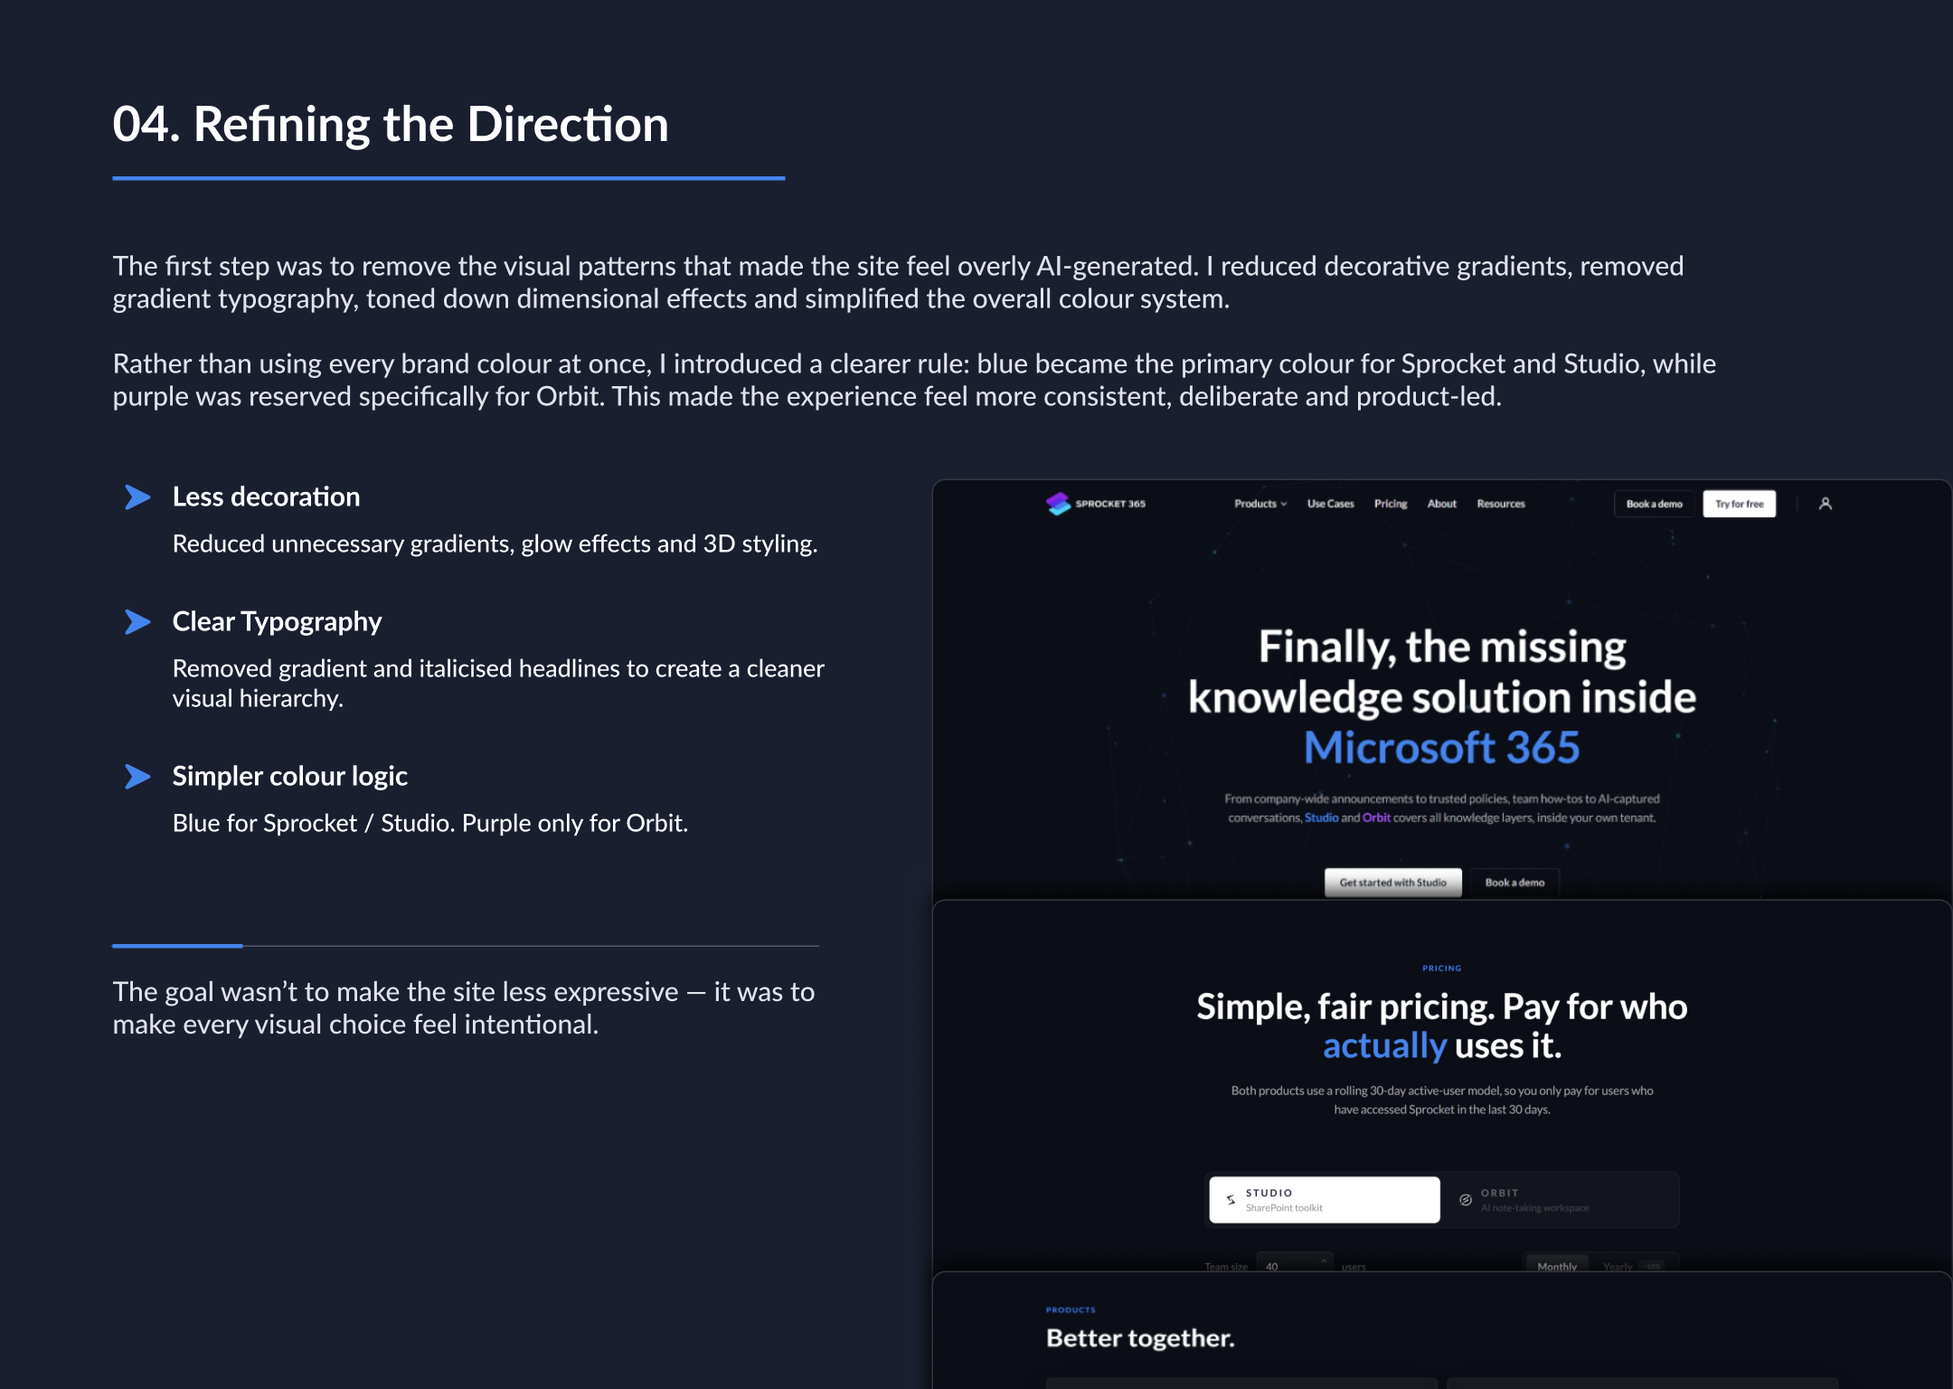
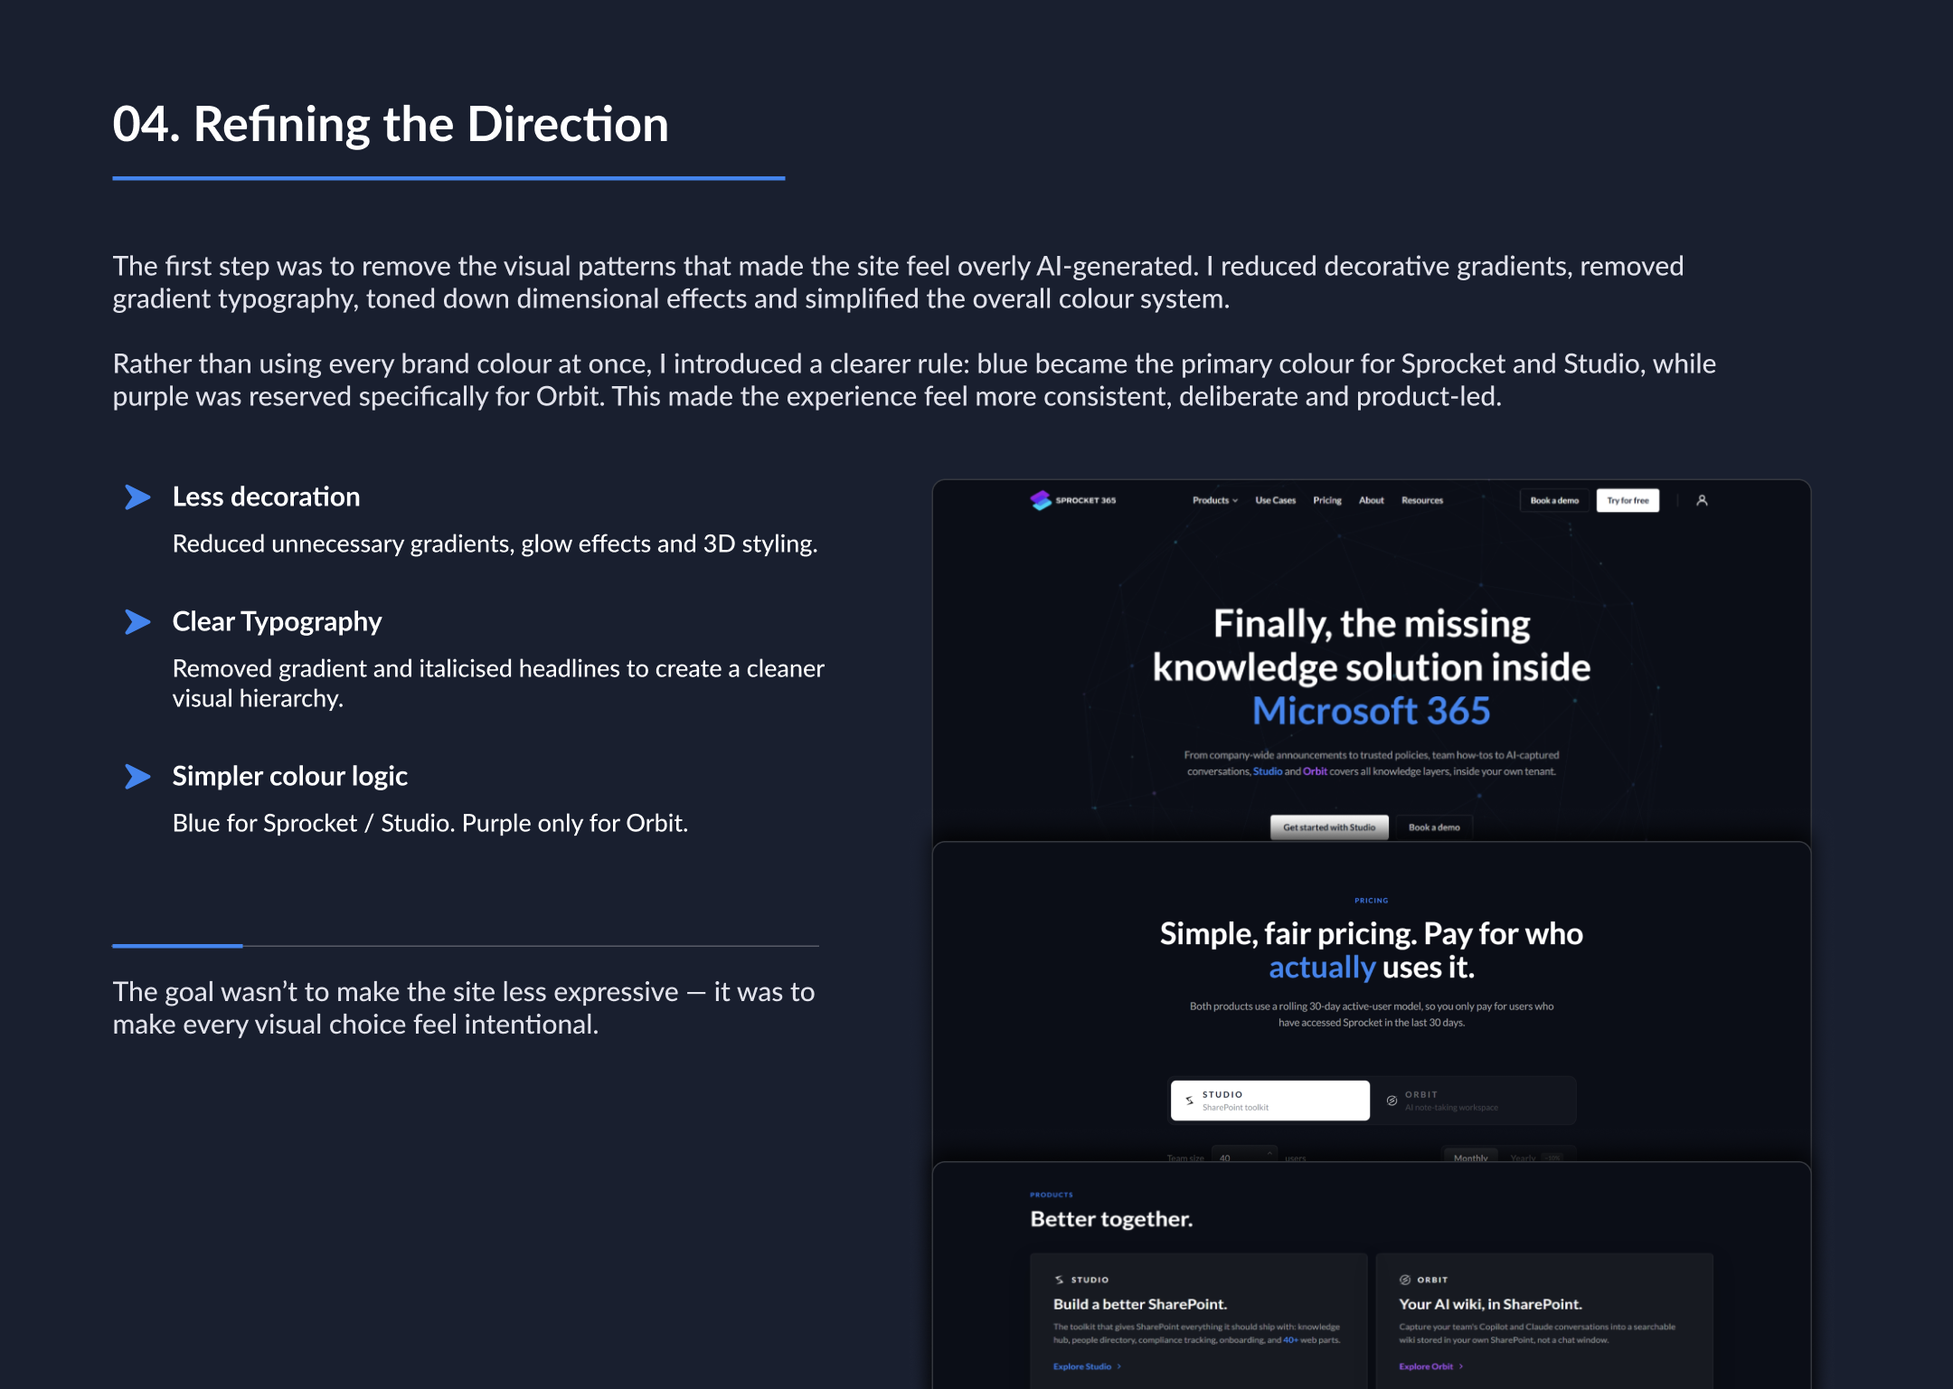
Add Sprocket Studio Intranets Design case study
Add the Intranets Design case study with challenge/approach/showcase
shots and a lookbook link, wire it into the portfolio grid and project
nav chain, simplify the confidentiality notes, and refresh the updated
Sprocket Studio cover and slide 04 assets.

diff --git a/portfolio.html b/portfolio.html
@@ -66,6 +66,20 @@
         </div>
       </a>
 
+      <a class="work-card" data-category="Product" href="work/sprocket-studio-intranets-design.html">
+        <div class="work-card-media">
+          <span class="work-card-badge">Product</span>
+          <img src="Image/sprocketintranet.png" alt="" loading="lazy">
+          <span class="work-card-arrow"><svg viewBox="0 0 20 20" fill="none"><path d="M5 15L15 5M15 5H7M15 5V13" stroke="currentColor" stroke-width="1.6" stroke-linecap="round" stroke-linejoin="round"/></svg></span>
+        </div>
+        <div class="work-card-body">
+          <span class="work-card-index">03</span>
+          <h3 class="work-card-name">Sprocket Studio — Intranets Design</h3>
+          <p class="work-card-tagline">Designing better SharePoint intranets with the Sprocket Studio toolkit.</p>
+          <div class="work-card-tags"><span class="tag">Product Design</span><span class="tag">SharePoint</span></div>
+        </div>
+      </a>
+
       <a class="work-card" data-category="Website" href="work/sope-website-redesign.html">
         <div class="work-card-media">
           <span class="work-card-badge">Website</span>
@@ -73,7 +87,7 @@
           <span class="work-card-arrow"><svg viewBox="0 0 20 20" fill="none"><path d="M5 15L15 5M15 5H7M15 5V13" stroke="currentColor" stroke-width="1.6" stroke-linecap="round" stroke-linejoin="round"/></svg></span>
         </div>
         <div class="work-card-body">
-          <span class="work-card-index">03</span>
+          <span class="work-card-index">04</span>
           <h3 class="work-card-name">Sope Website Redesign</h3>
           <p class="work-card-tagline">Brand implementation & website redesign for a Microsoft 365 consultancy.</p>
           <div class="work-card-tags"><span class="tag">Web Design</span><span class="tag">Brand</span><span class="tag">SharePoint</span></div>
@@ -87,7 +101,7 @@
           <span class="work-card-arrow"><svg viewBox="0 0 20 20" fill="none"><path d="M5 15L15 5M15 5H7M15 5V13" stroke="currentColor" stroke-width="1.6" stroke-linecap="round" stroke-linejoin="round"/></svg></span>
         </div>
         <div class="work-card-body">
-          <span class="work-card-index">04</span>
+          <span class="work-card-index">05</span>
           <h3 class="work-card-name">Tredo</h3>
           <p class="work-card-tagline">Trade, exchange, and do — a peer-to-peer marketplace app.</p>
           <div class="work-card-tags"><span class="tag">Mobile</span><span class="tag">Product Design</span></div>
@@ -101,7 +115,7 @@
           <span class="work-card-arrow"><svg viewBox="0 0 20 20" fill="none"><path d="M5 15L15 5M15 5H7M15 5V13" stroke="currentColor" stroke-width="1.6" stroke-linecap="round" stroke-linejoin="round"/></svg></span>
         </div>
         <div class="work-card-body">
-          <span class="work-card-index">05</span>
+          <span class="work-card-index">06</span>
           <h3 class="work-card-name">JoPipe</h3>
           <p class="work-card-tagline">Create a community of common interests.</p>
           <div class="work-card-tags"><span class="tag">Mobile</span><span class="tag">Community</span></div>
@@ -115,7 +129,7 @@
           <span class="work-card-arrow"><svg viewBox="0 0 20 20" fill="none"><path d="M5 15L15 5M15 5H7M15 5V13" stroke="currentColor" stroke-width="1.6" stroke-linecap="round" stroke-linejoin="round"/></svg></span>
         </div>
         <div class="work-card-body">
-          <span class="work-card-index">06</span>
+          <span class="work-card-index">07</span>
           <h3 class="work-card-name">GPost White Label Solution</h3>
           <p class="work-card-tagline">Promoting communication between government and the people.</p>
           <div class="work-card-tags"><span class="tag">Mobile</span><span class="tag">Civic Tech</span><span class="tag">UX Research</span></div>
@@ -129,7 +143,7 @@
           <span class="work-card-arrow"><svg viewBox="0 0 20 20" fill="none"><path d="M5 15L15 5M15 5H7M15 5V13" stroke="currentColor" stroke-width="1.6" stroke-linecap="round" stroke-linejoin="round"/></svg></span>
         </div>
         <div class="work-card-body">
-          <span class="work-card-index">07</span>
+          <span class="work-card-index">08</span>
           <h3 class="work-card-name">PTV Proposal</h3>
           <p class="work-card-tagline">Keeping Melbourne's train stations orderly and safe during COVID-19.</p>
           <div class="work-card-tags"><span class="tag">UX Research</span><span class="tag">Mobile</span><span class="tag">Case Study</span></div>
@@ -143,7 +157,7 @@
           <span class="work-card-arrow"><svg viewBox="0 0 20 20" fill="none"><path d="M5 15L15 5M15 5H7M15 5V13" stroke="currentColor" stroke-width="1.6" stroke-linecap="round" stroke-linejoin="round"/></svg></span>
         </div>
         <div class="work-card-body">
-          <span class="work-card-index">08</span>
+          <span class="work-card-index">09</span>
           <h3 class="work-card-name">Comedy Tonight</h3>
           <p class="work-card-tagline">A UK talk-show and stand-up ticketing platform.</p>
           <div class="work-card-tags"><span class="tag">Mobile</span><span class="tag">iOS</span><span class="tag">Ticketing</span></div>
@@ -157,7 +171,7 @@
           <span class="work-card-arrow"><svg viewBox="0 0 20 20" fill="none"><path d="M5 15L15 5M15 5H7M15 5V13" stroke="currentColor" stroke-width="1.6" stroke-linecap="round" stroke-linejoin="round"/></svg></span>
         </div>
         <div class="work-card-body">
-          <span class="work-card-index">09</span>
+          <span class="work-card-index">10</span>
           <h3 class="work-card-name">GPost Backend System</h3>
           <p class="work-card-tagline">Backend system for the White Label solution — dashboards for government staff.</p>
           <div class="work-card-tags"><span class="tag">Web Design</span><span class="tag">Admin</span></div>
@@ -171,7 +185,7 @@
           <span class="work-card-arrow"><svg viewBox="0 0 20 20" fill="none"><path d="M5 15L15 5M15 5H7M15 5V13" stroke="currentColor" stroke-width="1.6" stroke-linecap="round" stroke-linejoin="round"/></svg></span>
         </div>
         <div class="work-card-body">
-          <span class="work-card-index">10</span>
+          <span class="work-card-index">11</span>
           <h3 class="work-card-name">Avo Mall App</h3>
           <p class="work-card-tagline">A convenient and powerful Asian online supermarket app serving local Australians.</p>
           <div class="work-card-tags"><span class="tag">Mobile</span><span class="tag">E-commerce</span></div>
@@ -185,7 +199,7 @@
           <span class="work-card-arrow"><svg viewBox="0 0 20 20" fill="none"><path d="M5 15L15 5M15 5H7M15 5V13" stroke="currentColor" stroke-width="1.6" stroke-linecap="round" stroke-linejoin="round"/></svg></span>
         </div>
         <div class="work-card-body">
-          <span class="work-card-index">11</span>
+          <span class="work-card-index">12</span>
           <h3 class="work-card-name">BMYG</h3>
           <p class="work-card-tagline">Financial website design for a Chinese-language Australian finance portal.</p>
           <div class="work-card-tags"><span class="tag">Web Design</span><span class="tag">Finance</span></div>
@@ -199,7 +213,7 @@
           <span class="work-card-arrow"><svg viewBox="0 0 20 20" fill="none"><path d="M5 15L15 5M15 5H7M15 5V13" stroke="currentColor" stroke-width="1.6" stroke-linecap="round" stroke-linejoin="round"/></svg></span>
         </div>
         <div class="work-card-body">
-          <span class="work-card-index">12</span>
+          <span class="work-card-index">13</span>
           <h3 class="work-card-name">Dahua X Starlight VI</h3>
           <p class="work-card-tagline">Dahua Technology Australia's donation campaign for the Starlight Children's Foundation.</p>
           <div class="work-card-tags"><span class="tag">Branding</span><span class="tag">Campaign</span></div>
@@ -213,7 +227,7 @@
           <span class="work-card-arrow"><svg viewBox="0 0 20 20" fill="none"><path d="M5 15L15 5M15 5H7M15 5V13" stroke="currentColor" stroke-width="1.6" stroke-linecap="round" stroke-linejoin="round"/></svg></span>
         </div>
         <div class="work-card-body">
-          <span class="work-card-index">13</span>
+          <span class="work-card-index">14</span>
           <h3 class="work-card-name">Oscar Oliver Branding</h3>
           <p class="work-card-tagline">Brand identity for an unlisted public company holding an Australian financial services licence.</p>
           <div class="work-card-tags"><span class="tag">Branding</span><span class="tag">Identity</span></div>
@@ -227,7 +241,7 @@
           <span class="work-card-arrow"><svg viewBox="0 0 20 20" fill="none"><path d="M5 15L15 5M15 5H7M15 5V13" stroke="currentColor" stroke-width="1.6" stroke-linecap="round" stroke-linejoin="round"/></svg></span>
         </div>
         <div class="work-card-body">
-          <span class="work-card-index">14</span>
+          <span class="work-card-index">15</span>
           <h3 class="work-card-name">Avari Capital Partners</h3>
           <p class="work-card-tagline">UI design for a real estate investment platform.</p>
           <div class="work-card-tags"><span class="tag">Web Design</span><span class="tag">Real Estate</span></div>
@@ -241,7 +255,7 @@
           <span class="work-card-arrow"><svg viewBox="0 0 20 20" fill="none"><path d="M5 15L15 5M15 5H7M15 5V13" stroke="currentColor" stroke-width="1.6" stroke-linecap="round" stroke-linejoin="round"/></svg></span>
         </div>
         <div class="work-card-body">
-          <span class="work-card-index">15</span>
+          <span class="work-card-index">16</span>
           <h3 class="work-card-name">Creative Practice</h3>
           <p class="work-card-tagline">Self-directed design explorations outside client work.</p>
           <div class="work-card-tags"><span class="tag">Web Design</span><span class="tag">Practice</span></div>
@@ -255,7 +269,7 @@
           <span class="work-card-arrow"><svg viewBox="0 0 20 20" fill="none"><path d="M5 15L15 5M15 5H7M15 5V13" stroke="currentColor" stroke-width="1.6" stroke-linecap="round" stroke-linejoin="round"/></svg></span>
         </div>
         <div class="work-card-body">
-          <span class="work-card-index">16</span>
+          <span class="work-card-index">17</span>
           <h3 class="work-card-name">BMYG App</h3>
           <p class="work-card-tagline">Companion mobile app for BMYG's financial platform.</p>
           <div class="work-card-tags"><span class="tag">Mobile</span><span class="tag">Finance</span></div>

diff --git a/work/sprocket-studio-intranets-design.html b/work/sprocket-studio-intranets-design.html
@@ -3,8 +3,8 @@
 <head>
 <meta charset="utf-8">
 <meta name="viewport" content="width=device-width, initial-scale=1">
-<title>Sprocket 365 — Product Design — Kevin Jung</title>
-<meta name="description" content="Ongoing UX/UI evolution of the Sprocket 365 Microsoft 365 web parts suite.">
+<title>Sprocket Studio — Intranets Design — Kevin Jung</title>
+<meta name="description" content="Designing better SharePoint intranets with the Sprocket Studio toolkit.">
 <link rel="preconnect" href="https://fonts.googleapis.com">
 <link rel="preconnect" href="https://fonts.gstatic.com" crossorigin>
 <link href="https://fonts.googleapis.com/css2?family=Instrument+Sans:wght@500;600;700&family=Geist:wght@400;500;600&family=Geist+Mono:wght@400;500;600&display=swap" rel="stylesheet">
@@ -33,44 +33,36 @@
         </a>
         <div class="proj-title-row">
           <div>
-            <div class="eyebrow">Product Design / Enterprise SaaS / Microsoft 365</div>
-            <h1 class="proj-title">Sprocket 365 — Product Design</h1>
-            <p class="proj-tagline">Enterprise product · Microsoft 365 · 2025–Present</p>
+            <div class="eyebrow">Product Design / SharePoint / Microsoft 365</div>
+            <h1 class="proj-title">Sprocket Studio — Intranets Design</h1>
+            <p class="proj-tagline">Designing better SharePoint intranets, built with the Sprocket Studio toolkit.</p>
           </div>
         </div>
     <div class="spec-sheet">
       <div class="spec-item"><div class="spec-label">Client</div><div class="spec-value">Sprocket 365 (Sope)</div></div>
       <div class="spec-item"><div class="spec-label">Role</div><div class="spec-value">Product Designer</div></div>
       <div class="spec-item"><div class="spec-label">Date</div><div class="spec-value">2025–Present</div></div>
-      <div class="spec-item"><div class="spec-label">Link</div><div class="spec-value"><a href="https://sprocket365.com/docs/" target="_blank" rel="noopener">View it live</a></div></div>
+      <div class="spec-item"><div class="spec-label">Link</div><div class="spec-value"><a href="https://sprocket365.com/studio#showcase" target="_blank" rel="noopener">View it live</a></div></div>
     </div>
 
-        <figure class="proj-cover"><img src="../Image/sprocketstudio.png" alt="Sprocket 365 — Product Design cover" loading="lazy"></figure>
+        <figure class="proj-cover"><img src="../Image/sprocketintranet.png" alt="Sprocket Studio — Intranets Design cover" loading="lazy"></figure>
         <div class="proj-block">
           <h3>Overview</h3>
-      <p>As the sole Product Designer for Sprocket 365, I lead the ongoing UX/UI evolution of a large suite of Microsoft 365 web parts, focusing on configuration experience, interaction patterns, visual consistency and scalable design standards. See it live in the <a href="https://sprocket365.com/docs/" target="_blank" rel="noopener">Sprocket 365 documentation</a>.</p>
+      <p>I designed a collection of SharePoint intranet experiences using Sprocket 365's web parts, exploring how the same product system could adapt to different teams, industries and business needs. See it live in the <a href="https://sprocket365.com/studio#showcase" target="_blank" rel="noopener">Sprocket Studio showcase</a>.</p>
         </div>
 
-        <div class="proj-points">
-          <div class="proj-point">
-            <div class="proj-point-title">Product-wide UX/UI uplift</div>
-            <p>Improving legacy experiences and establishing more consistent interaction and visual patterns across the suite.</p>
-          </div>
-          <div class="proj-point">
-            <div class="proj-point-title">Complex configuration design</div>
-            <p>Simplifying flexible enterprise features without removing the customisation customers rely on.</p>
-          </div>
-          <div class="proj-point">
-            <div class="proj-point-title">Design at scale</div>
-            <p>Working across dozens of web parts while maintaining reusable patterns and implementation consistency.</p>
-          </div>
-        </div>
+        <div class="shot-grid">
+      <figure class="shot"><img src="../Image/intranet1.png" alt="Challenge & Approach" loading="lazy"><figcaption>Challenge &amp; Approach</figcaption></figure>
+      <figure class="shot"><img src="../Image/intranet2.png" alt="Showcase — one system, different workplaces" loading="lazy"><figcaption>Showcase — One system, different workplaces</figcaption></figure>
+    </div>
+
+        <div class="proj-note">Find out more in the <a href="https://sprocket365.com/studio#showcase" target="_blank" rel="noopener">Sprocket Studio lookbook</a>.</div>
 
         <div class="proj-note">Some content is not shown due to a confidentiality agreement.</div>
 
         <nav class="proj-nav">
-          <a href="sprocket365-website.html" class="prev"><span class="pn-label">&larr; Previous</span><span class="pn-title">Sprocket365.com</span></a>
-          <a href="sprocket-studio-intranets-design.html" class="next"><span class="pn-label">Next &rarr;</span><span class="pn-title">Sprocket Studio — Intranets Design</span></a>
+          <a href="sprocket-studio-product-design.html" class="prev"><span class="pn-label">&larr; Previous</span><span class="pn-title">Sprocket 365 — Product Design</span></a>
+          <a href="sope-website-redesign.html" class="next"><span class="pn-label">Next &rarr;</span><span class="pn-title">Sope Website Redesign</span></a>
         </nav>
       </div>
     </section>

diff --git a/work/sope-website-redesign.html b/work/sope-website-redesign.html
@@ -62,7 +62,7 @@
     </div>
 
         <nav class="proj-nav">
-          <a href="sprocket-studio-product-design.html" class="prev"><span class="pn-label">&larr; Previous</span><span class="pn-title">Sprocket 365 — Product Design</span></a>
+          <a href="sprocket-studio-intranets-design.html" class="prev"><span class="pn-label">&larr; Previous</span><span class="pn-title">Sprocket Studio — Intranets Design</span></a>
           <a href="tredo.html" class="next"><span class="pn-label">Next &rarr;</span><span class="pn-title">Tredo</span></a>
         </nav>
       </div>

diff --git a/style.css b/style.css
@@ -463,6 +463,7 @@ p{ margin:0; }
 .proj-point p{ color:var(--ink-70); font-size:15px; }
 
 .proj-note{ max-width:720px; padding:16px 20px; border-left:3px solid var(--line-strong); background:var(--tint); color:var(--tint-ink); font-size:14.5px; margin:0 0 56px; }
+.proj-note a{ color:var(--ink); border-bottom:1px solid var(--ink); }
 
 .shot-grid{ display:grid; grid-template-columns:1fr; gap:20px; margin-bottom:64px; }
 .shot{ margin:0; border:1px solid var(--line-strong); background:var(--white); overflow:hidden; }
